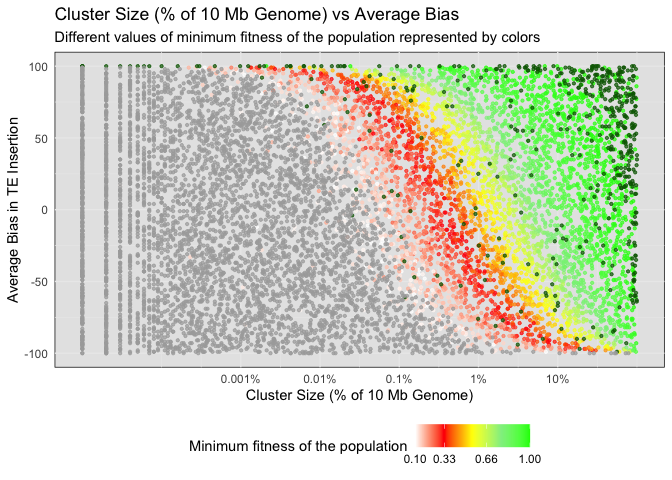
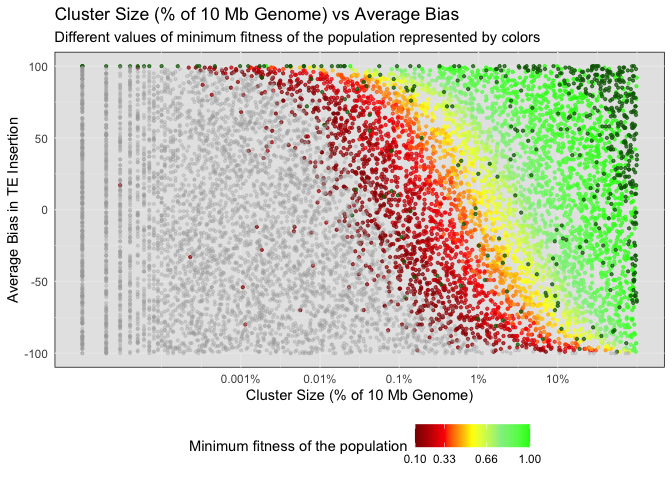
Simulation 1

Changed region(s): [[0.1562, 0.125, 0.875, 0.75], [0.5938, 0.875, 0.6562, 0.9375], [0.9062, 0.7188, 0.9375, 0.75]]

diff --git a/Simulation-Results_Files/simulation_storm/minfit/sim_storm_minm_fit.md b/Simulation-Results_Files/simulation_storm/minfit/sim_storm_minm_fit.md
@@ -17,8 +17,8 @@ Shashank Pritam
 - [<span class="toc-section-number">5</span> Explaination of the Color
   Scheme in the Plot](#explaination-of-the-color-scheme-in-the-plot)
   - [<span class="toc-section-number">5.1</span> Minimum fitness of the
-    population during the invasion - Continuous Variable - `min_w`
-    -](#minimum-fitness-of-the-population-during-the-invasion---continuous-variable---min_w--)
+    population during the invasion - Continuous Variable -
+    `min_w`](#minimum-fitness-of-the-population-during-the-invasion---continuous-variable---min_w)
   - [<span class="toc-section-number">5.2</span> Population status -
     Categorical Variables -
     `popstat`](#population-status---categorical-variables---popstat)
@@ -155,12 +155,20 @@ df_filtered = df_final %>% filter(!popstat %in% c("fail-0", "fail-w"))
 ``` r
 ### Custom color breaks and colors for fitness
 breaks = c(0.01, 0.1, 0.33, 0.66, 1)
-colors = c("white", "red", "yellow", "lightgreen", "green")
+colors = c("darkred", "red", "yellow", "lightgreen", "green")
 
 
 ### Create a ggplot with the filtered data
 g_avbias_cluster_size <- ggplot(df_filtered, aes(x = sampleid_percent, y = avbias, color = min_w)) +
-  geom_point(alpha = 0.7, size = 0.8) +
+  geom_point(alpha = 0.7, size = 0.8)
+
+### Adding back fail-0 and fail-w with specific colors
+g_avbias_cluster_size <- g_avbias_cluster_size +
+  geom_point(data = df_final %>% filter(popstat == "fail-0"), aes(x = sampleid_percent, y = avbias), color = "darkgreen", alpha = 0.7, size = 0.8) +
+  geom_point(data = df_final %>% filter(popstat == "fail-w"), aes(x = sampleid_percent, y = avbias), color = "darkgrey", alpha = 0.3, size = 0.75)
+
+### Complete the ggplot
+g_avbias_cluster_size <- g_avbias_cluster_size +
   ylab("Average Bias in TE Insertion") +
   xlab("Cluster Size (% of 10 Mb Genome)") +
   labs(
@@ -183,12 +191,6 @@ g_avbias_cluster_size <- ggplot(df_filtered, aes(x = sampleid_percent, y = avbia
     legend.position = "bottom", 
     panel.background = element_rect(fill = "grey90")
   )
-
-
-### Adding back fail-0 and fail-w with specific colors
-g_avbias_cluster_size <- g_avbias_cluster_size +
-  geom_point(data = df_final %>% filter(popstat == "fail-0"), aes(x = sampleid_percent, y = avbias), color = "darkgreen", alpha = 0.7, size = 0.8) +
-  geom_point(data = df_final %>% filter(popstat == "fail-w"), aes(x = sampleid_percent, y = avbias), color = "darkgrey", alpha = 0.7, size = 0.8)
 
 ### Display the plot
 g_avbias_cluster_size
@@ -213,7 +215,7 @@ ggsave(filename = "../../../images/minimum_fitness.jpg", plot = g_avbias_cluster
 The color scheme used in the plot serves to represent different
 categories and values effectively:
 
-### Minimum fitness of the population during the invasion - Continuous Variable - `min_w` -
+### Minimum fitness of the population during the invasion - Continuous Variable - `min_w`
 
 For `min_w`, we have used a gradient of colors as follows:
 

diff --git a/Minimum_Fitness.md b/Minimum_Fitness.md
@@ -78,9 +78,9 @@ def get_rand_clusters():
 ## Visualization in R
 
 <details>
-  
+
 <summary>Setting the environment</summary>
-  
+
 ``` r
 ### Setting the environment
 library(tidyverse)
@@ -138,12 +138,20 @@ df_filtered = df_final %>% filter(!popstat %in% c("fail-0", "fail-w"))
 ``` r
 ### Custom color breaks and colors for fitness
 breaks = c(0.01, 0.1, 0.33, 0.66, 1)
-colors = c("white", "red", "yellow", "lightgreen", "green")
+colors = c("darkred", "red", "yellow", "lightgreen", "green")
 
 
 ### Create a ggplot with the filtered data
 g_avbias_cluster_size <- ggplot(df_filtered, aes(x = sampleid_percent, y = avbias, color = min_w)) +
-  geom_point(alpha = 0.7, size = 0.8) +
+  geom_point(alpha = 0.7, size = 0.8)
+
+### Adding back fail-0 and fail-w with specific colors
+g_avbias_cluster_size <- g_avbias_cluster_size +
+  geom_point(data = df_final %>% filter(popstat == "fail-0"), aes(x = sampleid_percent, y = avbias), color = "darkgreen", alpha = 0.7, size = 0.8) +
+  geom_point(data = df_final %>% filter(popstat == "fail-w"), aes(x = sampleid_percent, y = avbias), color = "darkgrey", alpha = 0.3, size = 0.75)
+
+### Complete the ggplot
+g_avbias_cluster_size <- g_avbias_cluster_size +
   ylab("Average Bias in TE Insertion") +
   xlab("Cluster Size (% of 10 Mb Genome)") +
   labs(
@@ -167,14 +175,9 @@ g_avbias_cluster_size <- ggplot(df_filtered, aes(x = sampleid_percent, y = avbia
     panel.background = element_rect(fill = "grey90")
   )
 
-
-### Adding back fail-0 and fail-w with specific colors
-g_avbias_cluster_size <- g_avbias_cluster_size +
-  geom_point(data = df_final %>% filter(popstat == "fail-0"), aes(x = sampleid_percent, y = avbias), color = "darkgreen", alpha = 0.7, size = 0.8) +
-  geom_point(data = df_final %>% filter(popstat == "fail-w"), aes(x = sampleid_percent, y = avbias), color = "darkgrey", alpha = 0.7, size = 0.8)
-
 ### Display the plot
 g_avbias_cluster_size
+
 ```
 
 </details>
